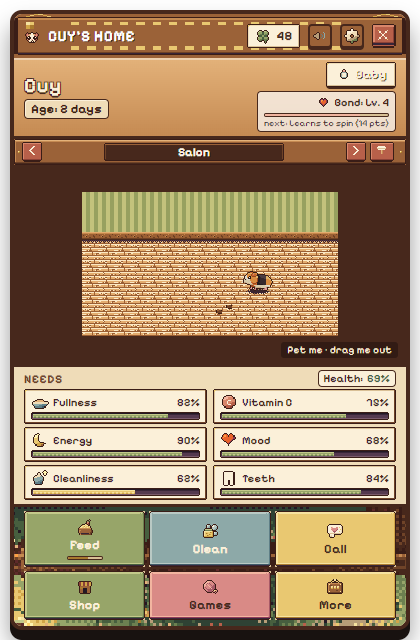
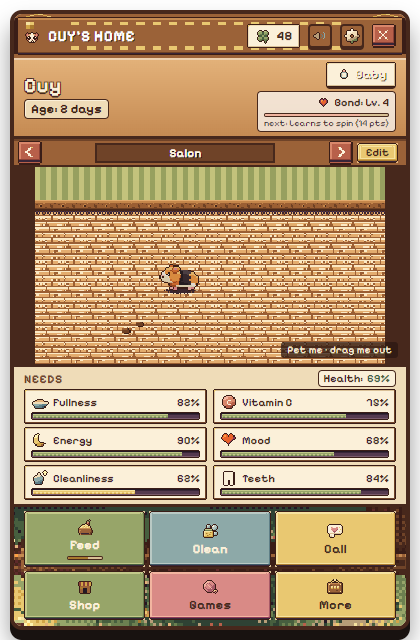
chore(F2F-6): stage gate verification logs, owner shots, and UX_WAVE_CHECKS

Changed region(s): [[0.031, 0.2188, 0.9595, 0.5938]]

diff --git a/docs/qa/UX_WAVE_CHECKS.md b/docs/qa/UX_WAVE_CHECKS.md
@@ -366,6 +366,23 @@ Wszystkie testy fali P44 mają zielony wynik (przeciąganie świnki do krawędzi
 - **Uwaga 27 (PK-T5):** Hotspoty scen interaktywnych (farma, targ) są klikalne i czytelne — pokryte przez `PK-T5` (`ux-p60-hotspots-adv.js`).
 - **Uwaga 28 (PK-T9):** Okno domku na różnych skalach DPI (100%/125%/150%) nie jest ucięte od dołu, a świnka po upgrade pokoju ma stały rozmiar — pokryte przez `PK-T9` (`ux-p66-viewport-matrix.js`).
 
+## F2-FIX (Live Testing Hotfixes)
+
+| # | Fixed Issue | Test File | In-Game Verification |
+|---|---|---|---|
+| 1 | UI/canvas lag during rendering and state updates | `tools/qa/ux-p71-lag-and-drag-fix.js` | Open Home and switch scenes or toggle Edit; animation and UI remain responsive without stutter |
+| 2 | Pig drag responsiveness and drop handling | `tools/qa/ux-p71-lag-and-drag-fix.js` | Drag the pig across the scene floor and release; it moves smoothly and stays on a valid cell |
+| 3 | Restored classic places bar above the stage | `tools/qa/ux-p72-layout-bar-bgs.js` | Check the wooden `[<] Place [>] [Edit]` bar sits cleanly above the canvas in a single row |
+| 4 | Fitted 16:9 canvas stage without brown frames | `tools/qa/ux-p72-layout-bar-bgs.js` | Verify the scene fills the 16:9 stage cleanly with no brown side or letterbox bars |
+| 5 | Restored outdoor background details | `tools/qa/ux-p72-layout-bar-bgs.js` | Cycle through Garden, Park, Farm, and Market and confirm full outdoor background art renders |
+| 6 | Drag collision and all 10 Park items / obstacles | `tools/qa/ux-p73-drag-collision-lamps.js` | Visit Park to confirm all 10 items (gazebo, trees, bridge, benches, path, lanterns) render and block walking |
+| 7 | Lamp placement, toggle, and night lighting glow | `tools/qa/ux-p73-drag-collision-lamps.js` | Place a floor lamp in Salon at night (`23:00`) and click it to toggle its warm glow |
+| 8 | Market stall signboards and stall interactions | `tools/qa/ux-p74-market-farm-ux.js` | Open Market and confirm the 3 stalls display clear signboards (sprout, carrot, flower) and respond to clicks |
+| 9 | Farm scene UX and hotspot interactions | `tools/qa/ux-p74-market-farm-ux.js` | Open Farm and confirm crops/hotspots are visible, aligned, and clickable |
+
+- **Owner Screenshots (PK-QF2):** `node tools/qa/ux-p70-owner-shots.js` — regenerates `docs/qa/shots/owner-{salon,garden,park,farm,market,edit-drawer,night-lamp,two-pigs}.png` at `420x640`.
+
+
 
 
 

diff --git a/docs/opt/log/PK-QF1.md b/docs/opt/log/PK-QF1.md
@@ -1,0 +1,10 @@
+# PK-QF1 Gate F2-FIX Log
+| Check | Result | Details | Time |
+| --- | --- | --- | --- |
+| build.ps1 Release / Debug | FAIL (exit 1) | Binaries built OK; internal Core tests 1236/1244 (7 fail, 1 skip) | 71.3s / 57.4s |
+| dotnet test Core (Release) | FAIL (exit 1) | 1236 pass, 7 fail (PigPin x4, WorldMsg x1, Catalog 101!=75, Icons tunnel*), 1 skip | 25.4s |
+| ux-p71..p74 (STRICT=1) | PASS (exit 0) | p71:6/6 (1st run 5/6 L4=28px, 2nd 6/6); p72:6/6; p73:6/6; p74:7/7 (0 defects) | 16.4/17.0/12.8/12.5s |
+| ux-all.js (STRICT=1) | FAIL (exit 1) | 89 scripts, 36 failed (legacy suites); p71..p74 all PASS | 1121.7s |
+| web-smoke.js | FAIL (exit 1) | 404 mock.js x11, 26_my_pigs, layout/selector timeouts in world/dorm/roaming | 168.9s |
+| check-assets / icons / plan-audit | PASS (exit 0) | ASSETS OK, ICONS OK, PLAN AUDIT OK (71 prompts, 101 placeables) | 0.4s / 0.2s / 0.4s |
+| run-exe-smoke.ps1 -Seconds 25 | PASS (exit 0) | SELFTEST OK (WebView2 157.0.4341.60), 28 log lines, EXE SMOKE OK | 34.3s |

diff --git a/docs/opt/log/PK-QF2.md b/docs/opt/log/PK-QF2.md
@@ -1,0 +1,6 @@
+# PK-QF2 Log
+- Regenerated all 8 `docs/qa/shots/owner-*.png` screenshots at `420x640` via `tools/qa/ux-p70-owner-shots.js` (using existing `msedge` fallback on Windows).
+- Verified visually (`owner-salon.png`, `owner-park.png`, `owner-market.png`): classic places bar, fitted 16:9 stage without brown frames, outdoor details, 10 Park items, and Market stall signboards.
+- Appended `## F2-FIX (Live Testing Hotfixes)` to `docs/qa/UX_WAVE_CHECKS.md` covering all 9 issues, `ux-p71..74` test files, and in-game verification steps.
+- Decision: kept `tools/qa/ux-p70-owner-shots.js` untouched because `msedge` fallback was already implemented and executed cleanly.
+- Verification `node --check tools/qa/ux-p70-owner-shots.js; if ($LASTEXITCODE -eq 0) { node tools/qa/ux-p70-owner-shots.js }` passed (`OWNER_SHOTS OK (8/8)`, exit code 0).
